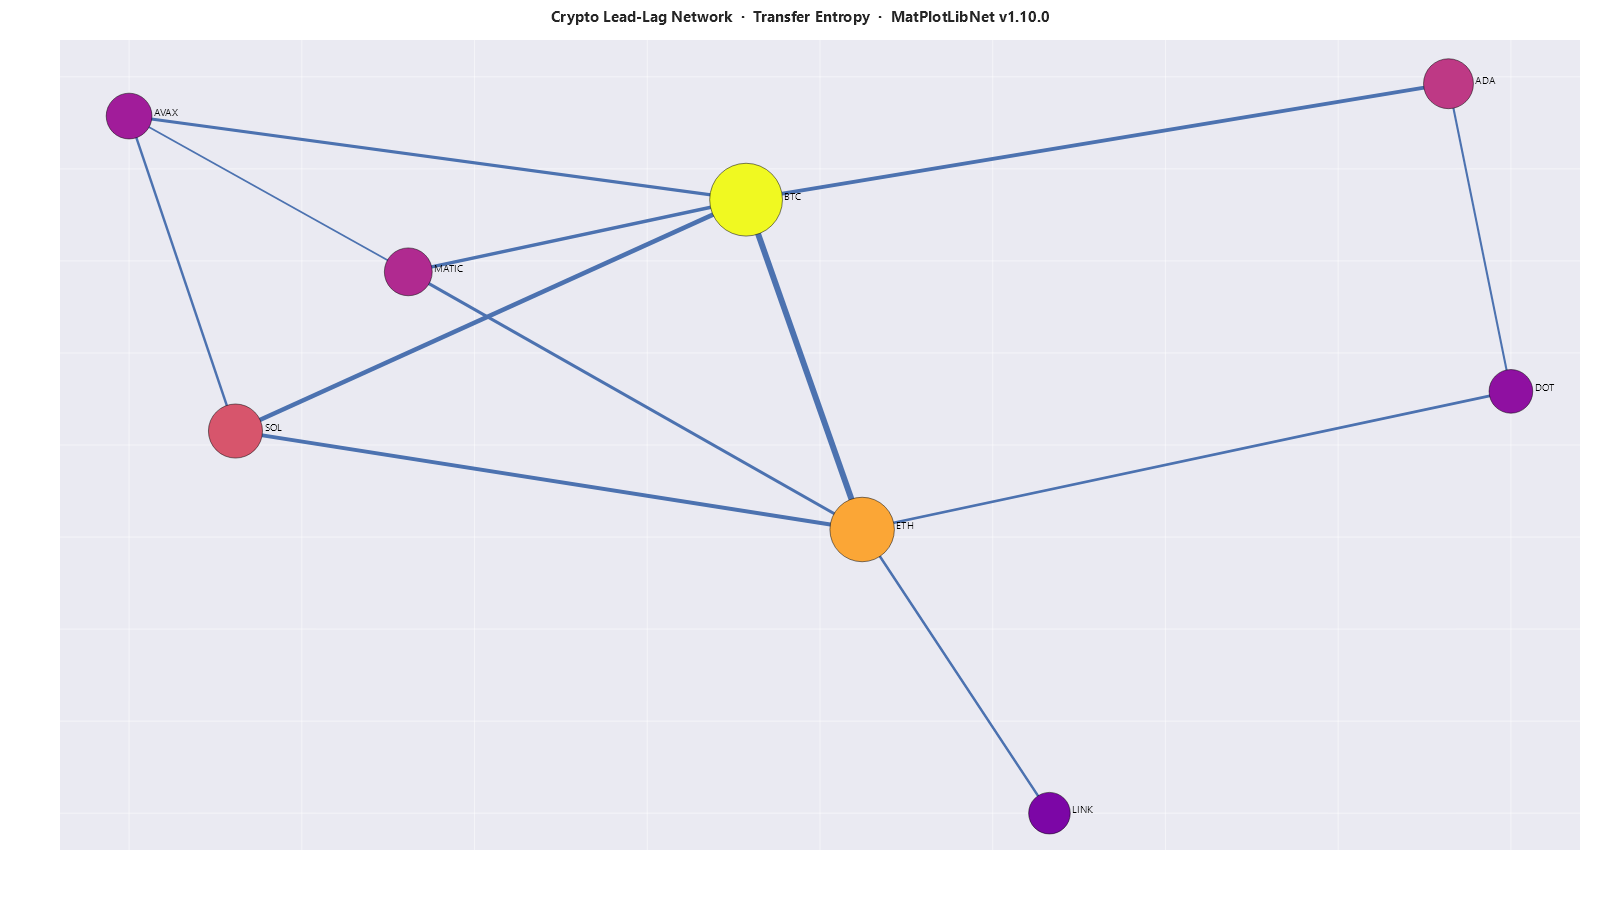
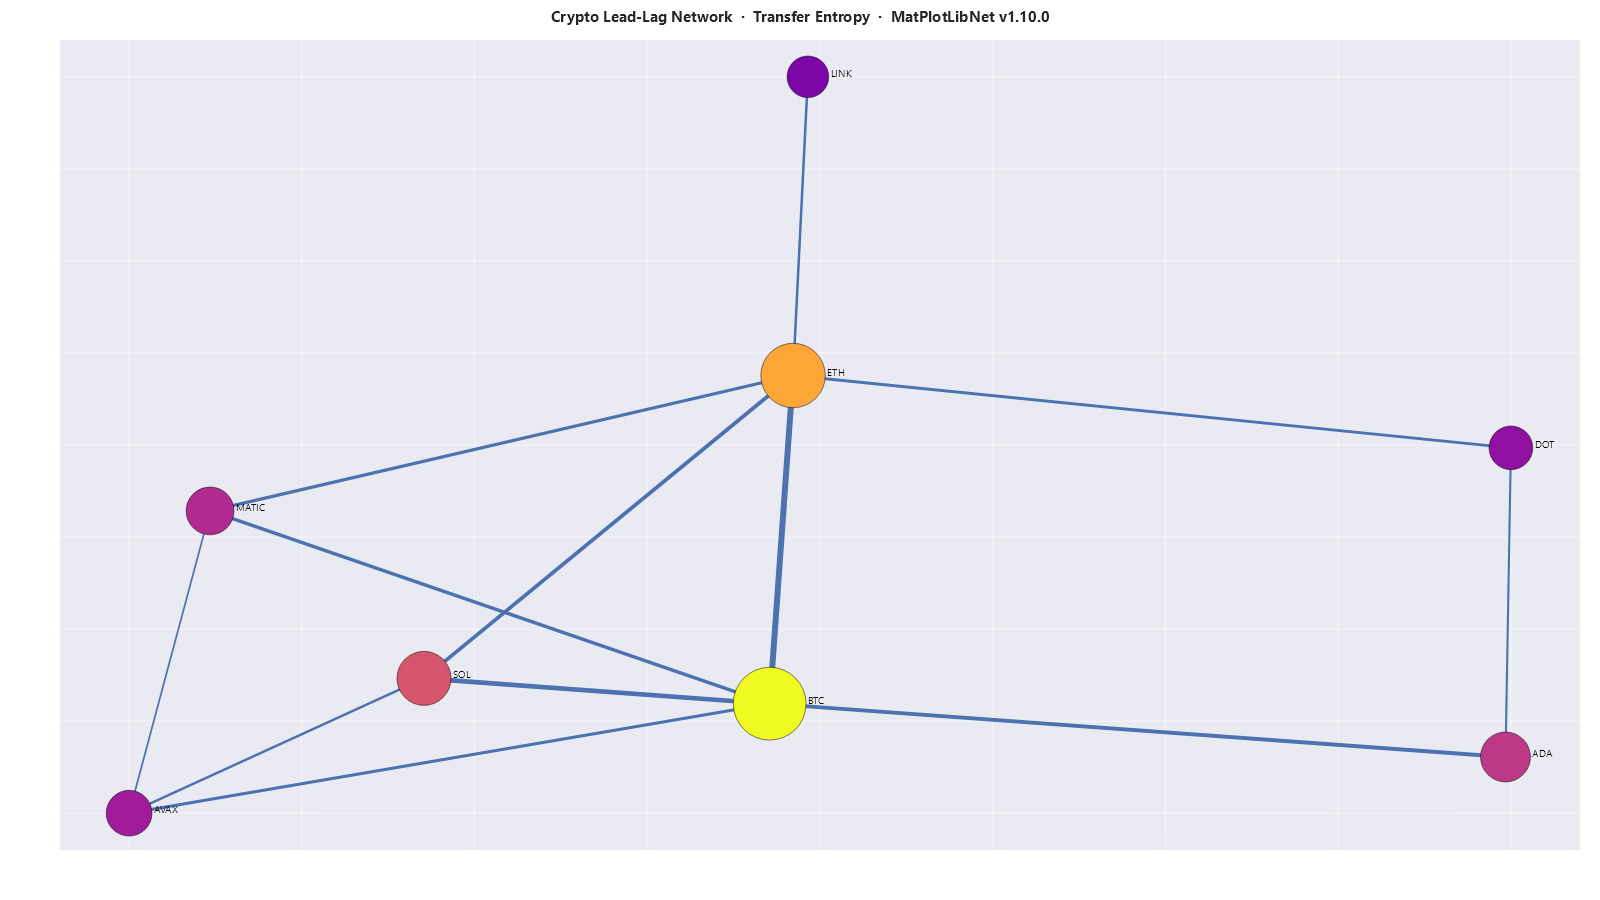
fix: draw a force-directed graph with the layout the caller asked for
NetworkGraphSeries.ComputeDataRange passed LayoutSeed, LayoutIterations and
ConvergenceThreshold to the layout; NetworkGraphSeriesRenderer called the same
method without them. The axes were therefore scaled to the caller's layout and
the nodes placed by the default one, and a node could be drawn outside the plot
area. Measured on a twelve-node ring: two nodes outside at LayoutIterations = 1,
five at 5, none at the renderer's own default of 50. LayoutSeed changed nothing
about the drawing at all, while being serialised, round-tripped and tested --
three public properties, one of them silently throwing nodes off the canvas.

The renderer now reads all three off the series, so both passes lay the graph
out by the same rule.

Six new facts in ForceDirectedLayoutRenderTests, three of which were red before
this change: every node inside the plot area at 1, 5 and 50 iterations; the seed
changes the drawing; the same seed draws the same graph twice; more iterations
move the nodes.

images/medium-cover-v1-10-0 is regenerated: that sample asks for seed 42 and 250
iterations and was drawn with neither, so 83,033 of its 1,440,000 pixels move.
images/international.png moves by 3 pixels of 400,000, antialiasing noise at one
edge. Core 10,697 tests, 152 fidelity fixtures, 701 classes at 90/90, all green.

diff --git a/Tst/MatPlotLibNet/Rendering/ForceDirectedLayoutRenderTests.cs b/Tst/MatPlotLibNet/Rendering/ForceDirectedLayoutRenderTests.cs
@@ -1,0 +1,114 @@
+// Copyright (c) 2026 H.P. Gansevoort. All rights reserved.
+// Licensed under the MIT License. See LICENSE file in the project root for full license information.
+
+using System.Globalization;
+using System.Text.RegularExpressions;
+using MatPlotLibNet.Models.Series;
+
+namespace MatPlotLibNet.Tests.Rendering;
+
+/// <summary>
+/// A force-directed graph is laid out twice per render: once by <c>NetworkGraphSeries.ComputeDataRange</c> to find
+/// the axis bounds, and once by the renderer to place the nodes. The range pass was given the caller's
+/// <c>LayoutSeed</c>, <c>LayoutIterations</c> and <c>ConvergenceThreshold</c> and the drawing pass was not, so the
+/// axes were scaled to one layout while the nodes came from another — and a node could land outside the plot area.
+/// Measured before the fix on this twelve-node graph: two nodes outside at one iteration, five at five iterations,
+/// and a seed that changed nothing at all about the picture.
+/// </summary>
+public class ForceDirectedLayoutRenderTests
+{
+    private static (IReadOnlyList<GraphNode> Nodes, IReadOnlyList<GraphEdge> Edges) Ring(int count)
+    {
+        var nodes = new List<GraphNode>();
+        for (int i = 0; i < count; i++) nodes.Add(new GraphNode($"n{i}"));
+
+        var edges = new List<GraphEdge>();
+        for (int i = 0; i < count - 1; i++) edges.Add(new GraphEdge($"n{i}", $"n{i + 1}"));
+        edges.Add(new GraphEdge($"n{count - 1}", "n0"));
+        edges.Add(new GraphEdge("n3", "n8"));
+        return (nodes, edges);
+    }
+
+    private static string Render(int seed = 0, int iterations = 50)
+    {
+        var (nodes, edges) = Ring(12);
+        return Plt.Create().WithSize(800, 600)
+            .AddSubPlot(1, 1, 1, ax => ax.NetworkGraph(nodes, edges, s =>
+            {
+                s.Layout = GraphLayout.ForceDirected;
+                s.LayoutSeed = seed;
+                s.LayoutIterations = iterations;
+            }))
+            .Build().ToSvg();
+    }
+
+    /// <summary>Every node marker, as (cx, cy) in pixels, in document order.</summary>
+    private static (double X, double Y)[] Nodes(string svg) =>
+        [.. Regex.Matches(svg, @"<circle[^>]*\bcx=""([0-9.eE+-]+)""[^>]*\bcy=""([0-9.eE+-]+)""")
+            .Select(m => (double.Parse(m.Groups[1].Value, CultureInfo.InvariantCulture),
+                          double.Parse(m.Groups[2].Value, CultureInfo.InvariantCulture)))];
+
+    /// <summary>The plot rectangle the axes reserved: the widest rectangle that is not the whole figure.</summary>
+    private static (double X0, double X1, double Y0, double Y1) PlotArea(string svg)
+    {
+        double x0 = 0, y0 = 0, w = 0, h = 0;
+        foreach (Match m in Regex.Matches(svg,
+            @"<rect x=""([0-9.eE+-]+)"" y=""([0-9.eE+-]+)"" width=""([0-9.eE+-]+)"" height=""([0-9.eE+-]+)"""))
+        {
+            double mw = double.Parse(m.Groups[3].Value, CultureInfo.InvariantCulture);
+            double mh = double.Parse(m.Groups[4].Value, CultureInfo.InvariantCulture);
+            if (mw < 799 && mw * mh > w * h)
+            {
+                x0 = double.Parse(m.Groups[1].Value, CultureInfo.InvariantCulture);
+                y0 = double.Parse(m.Groups[2].Value, CultureInfo.InvariantCulture);
+                w = mw; h = mh;
+            }
+        }
+        return (x0, x0 + w, y0, y0 + h);
+    }
+
+    [Theory]
+    [InlineData(1)]
+    [InlineData(5)]
+    [InlineData(50)]
+    public void EveryNode_IsDrawnInsideThePlotArea(int iterations)
+    {
+        string svg = Render(iterations: iterations);
+        var area = PlotArea(svg);
+
+        var outside = Nodes(svg)
+            .Where(n => n.X < area.X0 - 0.5 || n.X > area.X1 + 0.5 || n.Y < area.Y0 - 0.5 || n.Y > area.Y1 + 0.5)
+            .ToArray();
+
+        Assert.True(outside.Length == 0,
+            $"{outside.Length} node(s) outside the plot area {area.X0:F0}..{area.X1:F0} x {area.Y0:F0}..{area.Y1:F0}: " +
+            string.Join(", ", outside.Select(n => $"({n.X:F0},{n.Y:F0})")));
+    }
+
+    [Fact]
+    public void TheLayoutSeed_ChangesWhereTheNodesAreDrawn()
+    {
+        var a = Nodes(Render(seed: 0));
+        var b = Nodes(Render(seed: 42));
+
+        Assert.Equal(a.Length, b.Length);
+        Assert.True(a.Zip(b).Any(p => Math.Abs(p.First.X - p.Second.X) > 1e-6 || Math.Abs(p.First.Y - p.Second.Y) > 1e-6),
+            "every node landed on the same pixel for seed 0 and seed 42 — the seed never reached the drawing");
+    }
+
+    [Fact]
+    public void TheSameSeed_DrawsTheSameGraphTwice()
+    {
+        Assert.Equal(Nodes(Render(seed: 7)), Nodes(Render(seed: 7)));
+    }
+
+    [Fact]
+    public void MoreIterations_MoveTheNodes()
+    {
+        var few = Nodes(Render(iterations: 2));
+        var many = Nodes(Render(iterations: 200));
+
+        Assert.True(few.Zip(many).Any(p => Math.Abs(p.First.X - p.Second.X) > 1e-6 || Math.Abs(p.First.Y - p.Second.Y) > 1e-6),
+            "two iterations and two hundred drew the same picture — the iteration count never reached the drawing");
+    }
+}

diff --git a/Src/MatPlotLibNet/Rendering/SeriesRenderers/Graph/NetworkGraphSeriesRenderer.cs b/Src/MatPlotLibNet/Rendering/SeriesRenderers/Graph/NetworkGraphSeriesRenderer.cs
@@ -27,7 +27,11 @@ internal sealed class NetworkGraphSeriesRenderer : SeriesRenderer<NetworkGraphSe
         if (series.Nodes.Count == 0) return;
 
         // 1. Apply layout to get positioned nodes (X/Y in data space).
-        var positioned = NetworkGraphLayouts.Apply(series.Layout, series.Nodes, series.Edges);
+        // The seed, the iteration count and the convergence threshold come from the series, exactly as they do
+        // in NetworkGraphSeries.ComputeDataRange. Leave them out here and the axes are scaled to the
+        // caller's layout while the nodes are drawn from the default one, which puts nodes outside the plot.
+        var positioned = NetworkGraphLayouts.Apply(series.Layout, series.Nodes, series.Edges,
+            series.LayoutSeed, series.LayoutIterations, series.ConvergenceThreshold);
 
         // 2. Build ID → index → pixel-position map for fast edge lookup.
         var idToIndex = new Dictionary<string, int>(positioned.Length);

diff --git a/CHANGELOG.md b/CHANGELOG.md
@@ -7,6 +7,13 @@ The format is based on [Keep a Changelog](https://keepachangelog.com/en/1.1.0/).
 ## [1.17.1]
 ### Fixed
 
+- **A force-directed graph is drawn with the layout you asked for.** `LayoutSeed`, `LayoutIterations` and
+  `ConvergenceThreshold` reached the pass that computes the axis range and not the pass that places the nodes, so a
+  graph was measured with one layout and drawn with another. Nodes could land outside the plot area: on a twelve-node
+  ring at `LayoutIterations = 1`, two of them did, and at 5 iterations, five. The seed changed nothing about the
+  picture at all, while being saved to JSON and read back. The sample that ships as the 1.10.0 cover image asks for
+  seed 42 and 250 iterations and was drawn with neither; it is regenerated here.
+
 - **A chart on a log or symlog axis no longer loses points when downsampling is on.** Asking for a point budget with
   `WithDownsampling(...)` or `MaxDisplayPoints` made the renderer compare the axis range against the raw data values,
   and on those scales the range is held in log space: an axis running from 1 to 100 000 was compared as 0 to 5, so
